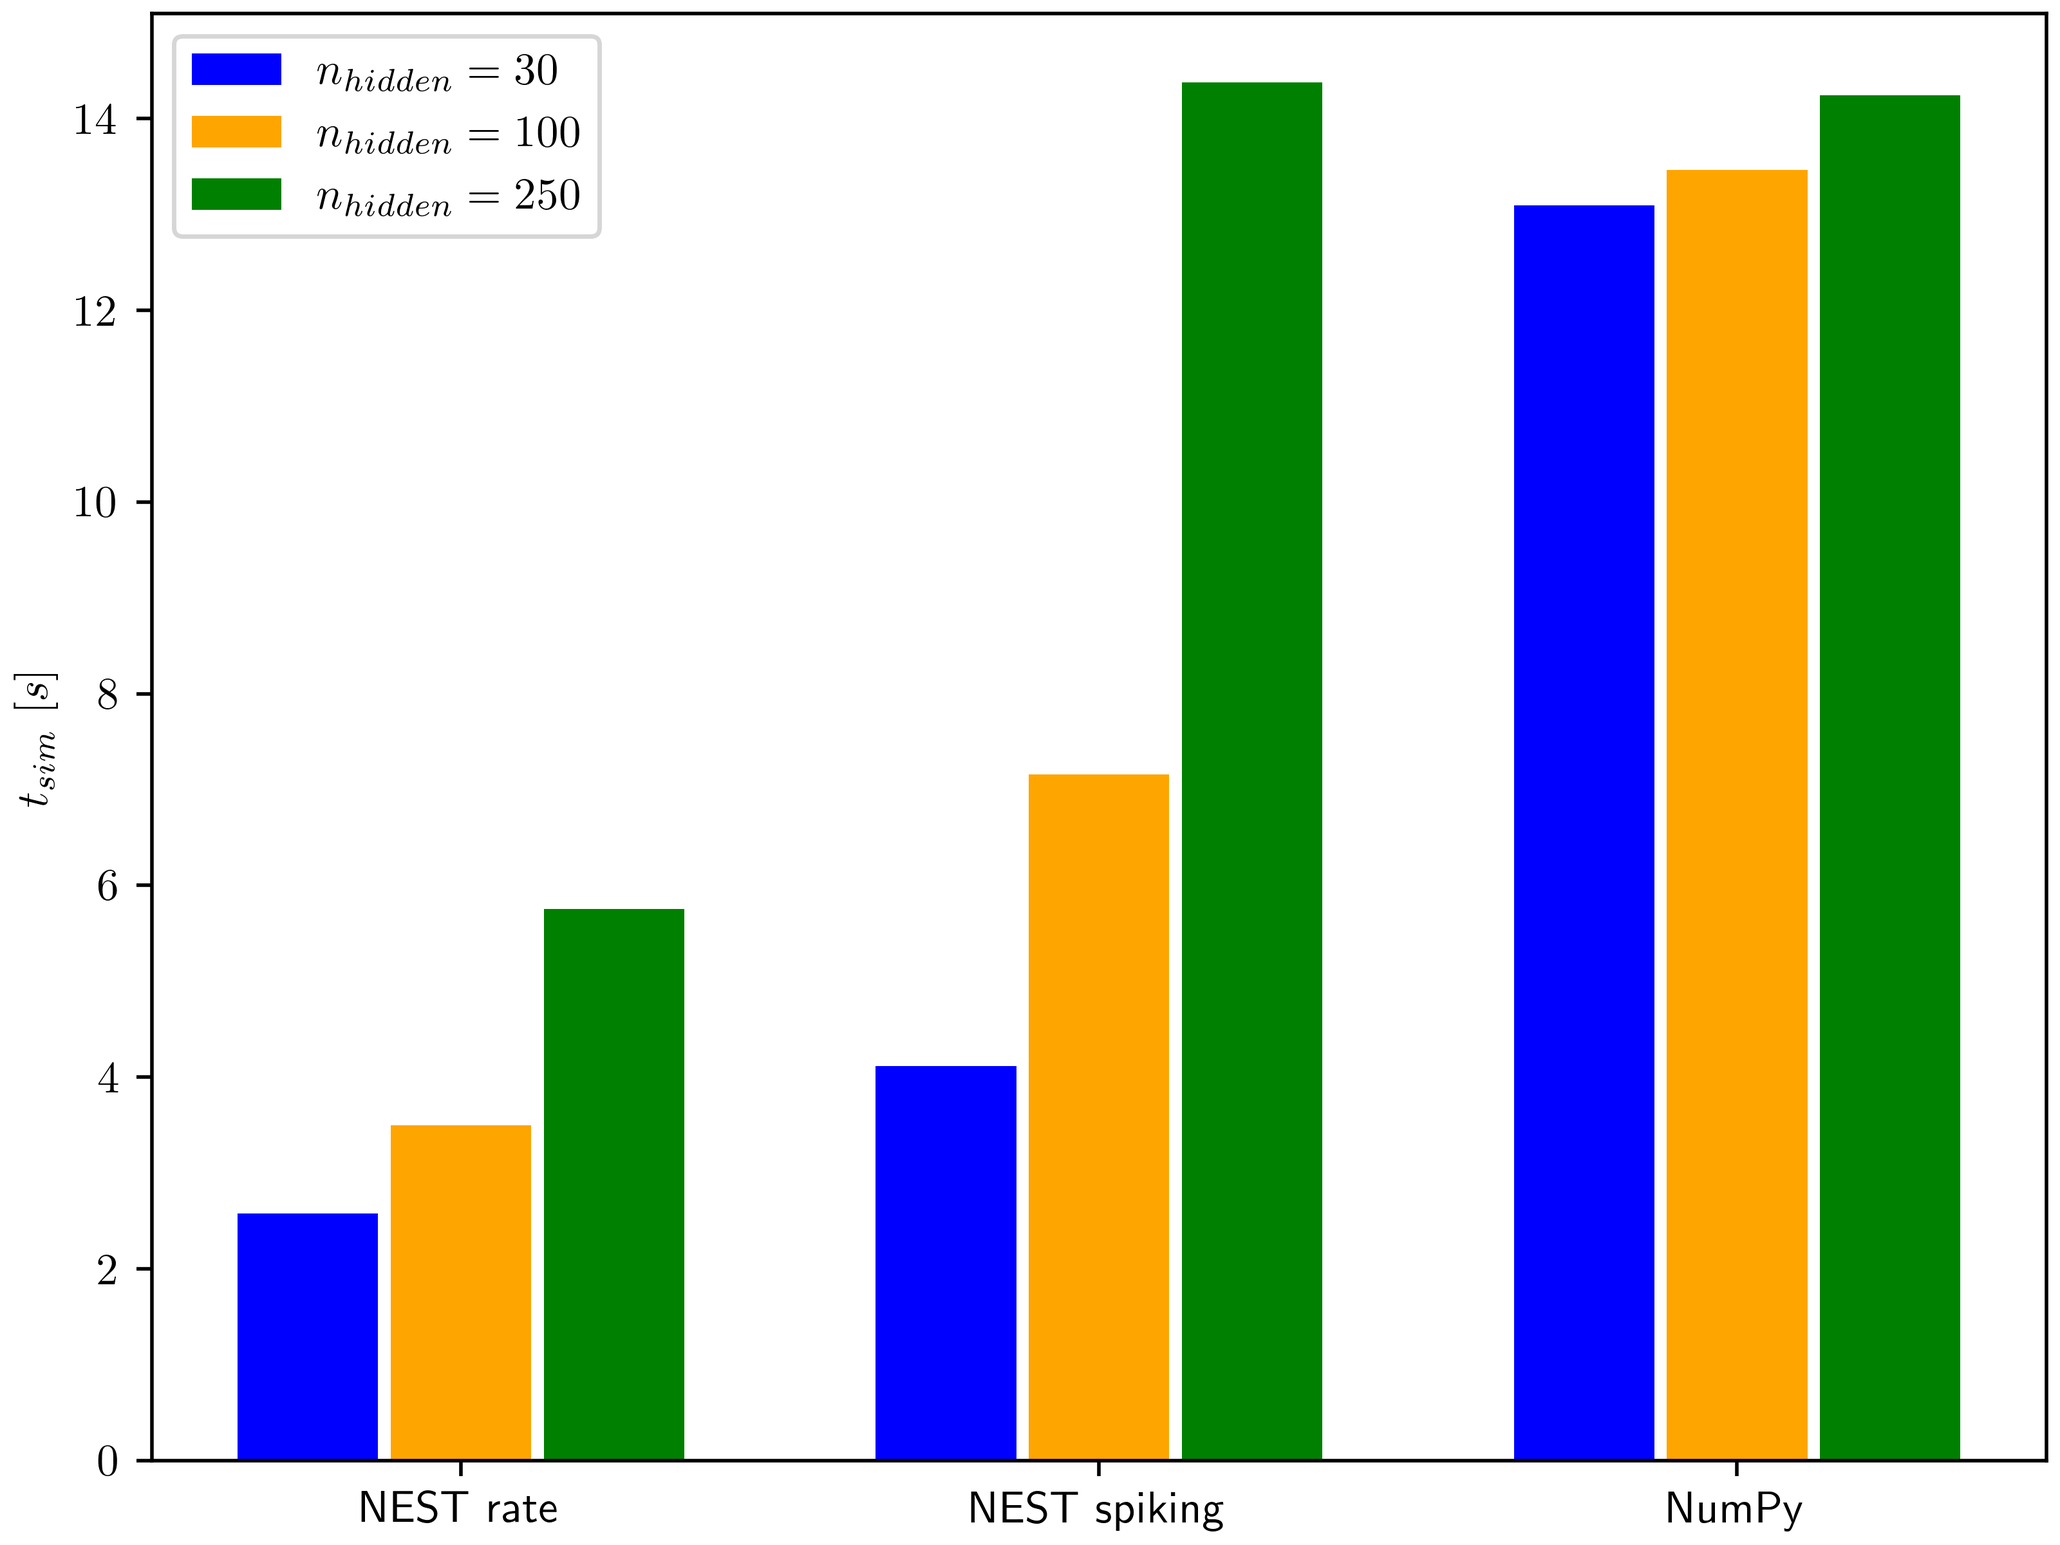
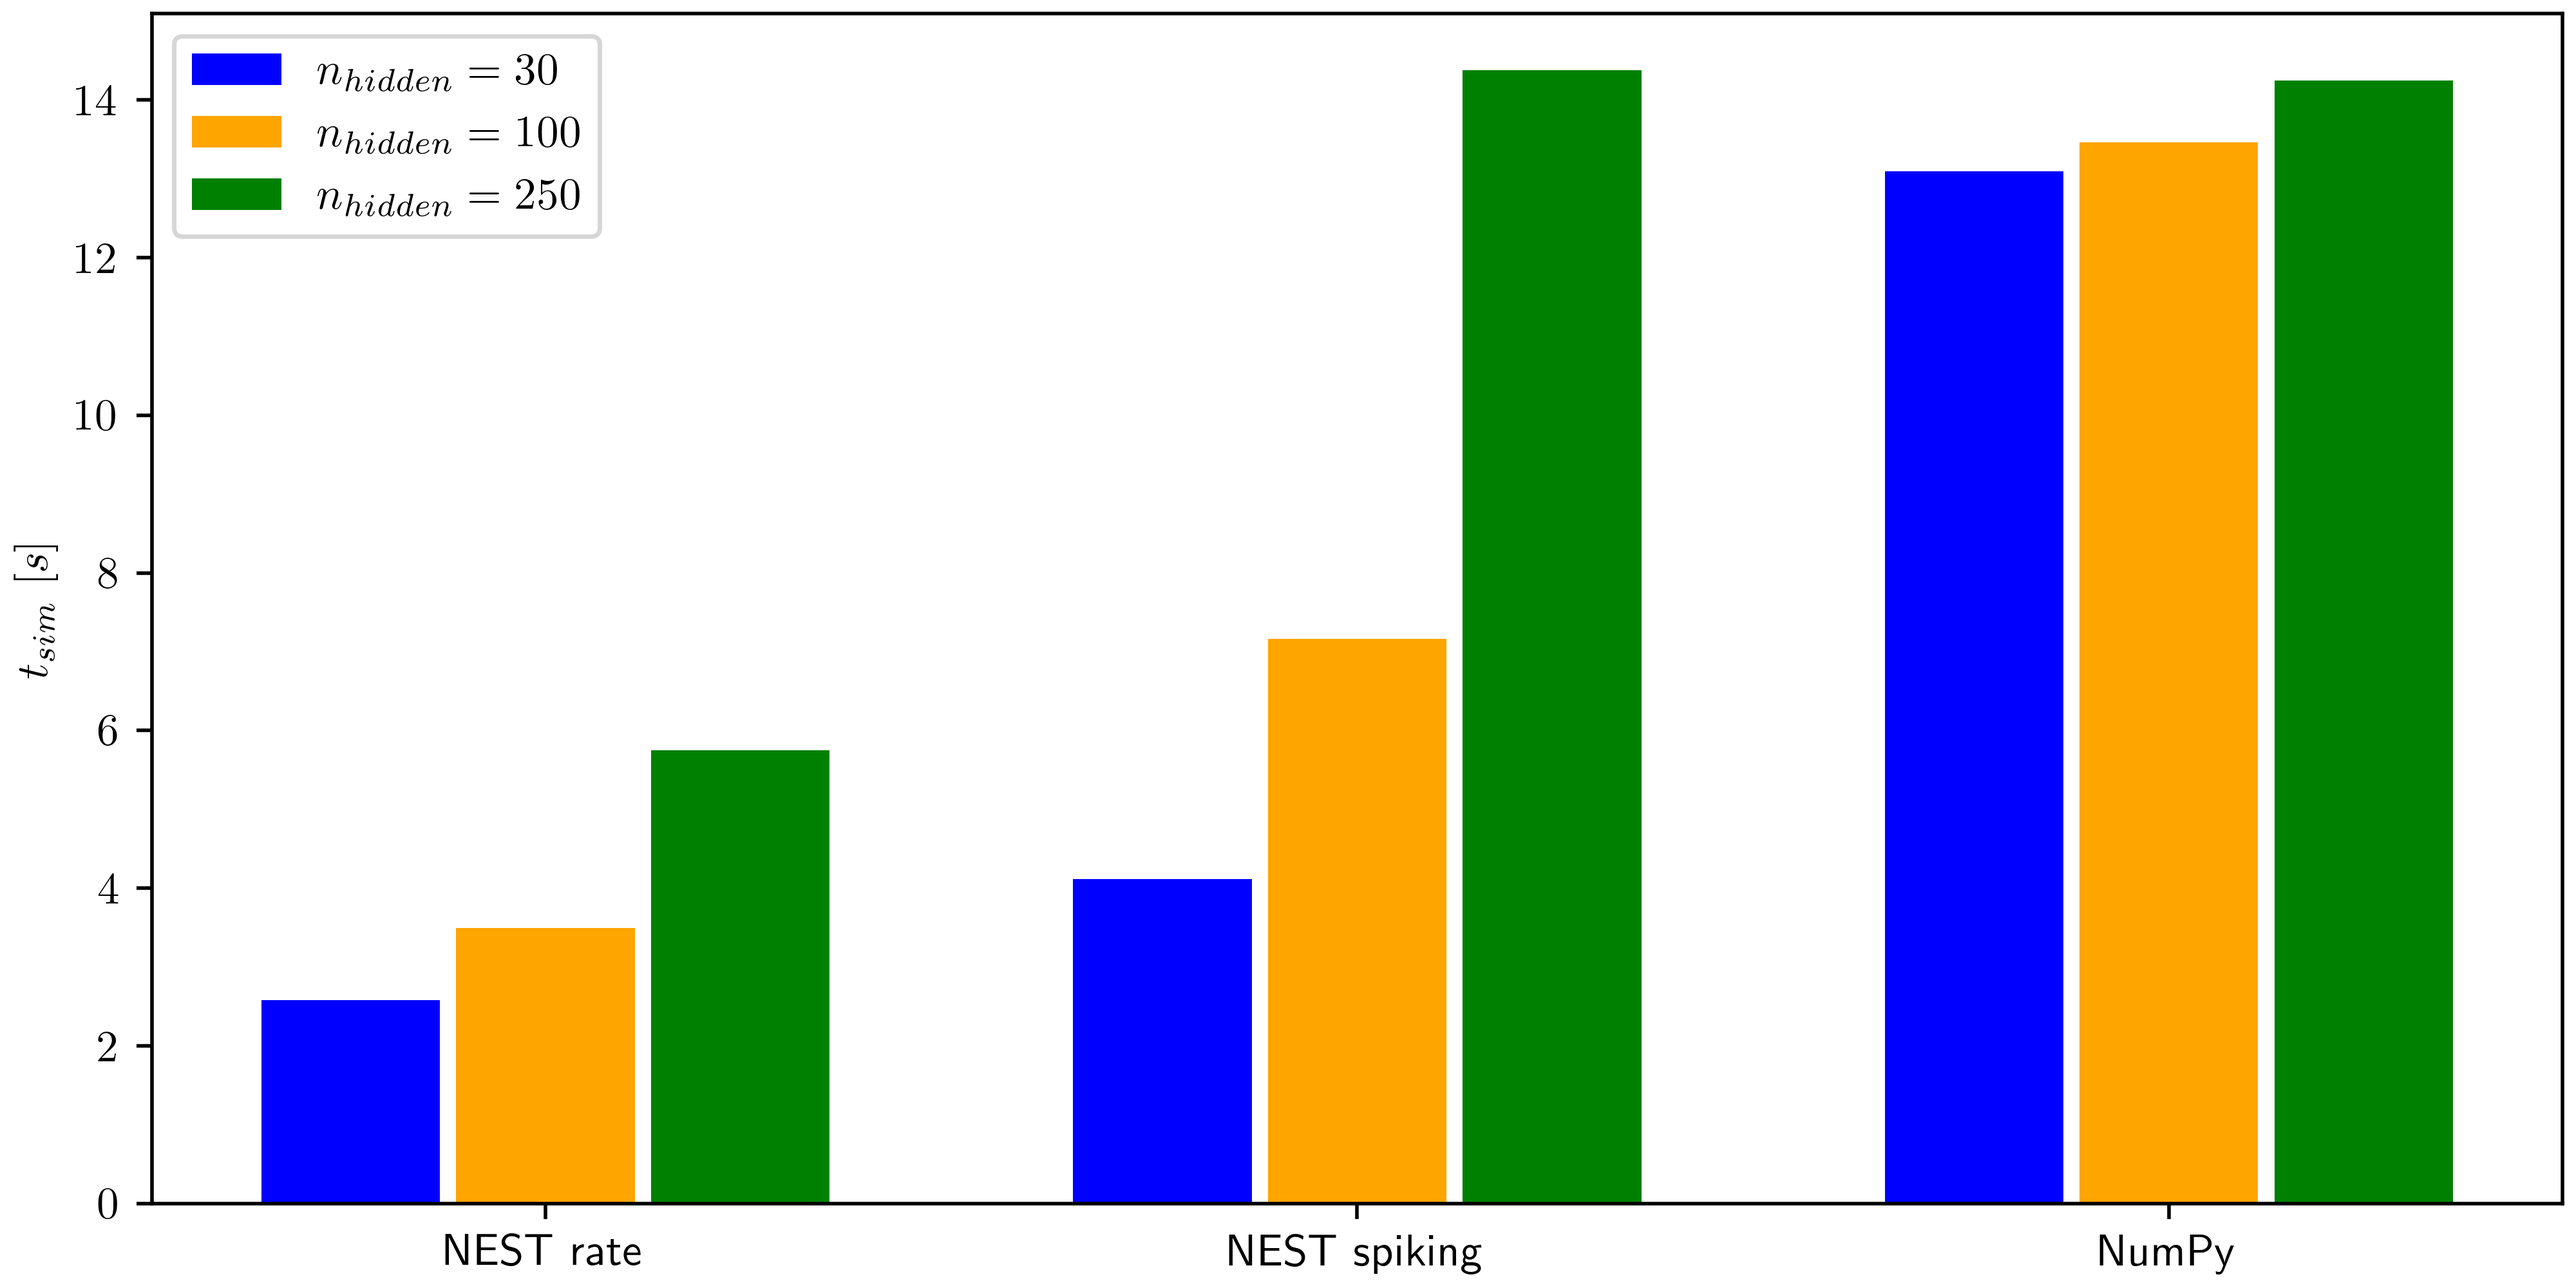
update figures and plotting scripts

diff --git a/pyramidal_microcircuit/scripts/plotting_scripts/fig_unpredicted_stimulus_response.py b/pyramidal_microcircuit/scripts/plotting_scripts/fig_unpredicted_stimulus_response.py
@@ -12,17 +12,16 @@ import nest
 
 plot_utils.setup_plt()
 
-simulation_dir = "/home/johannes/Desktop/nest-simulator/pyramidal_microcircuit/results/bars_le_full_plast_snest"
-weight_loc = os.path.join(simulation_dir, "weights.json")
-p = Params()
+simulation_dir = "/home/johannes/Desktop/nest-simulator/pyramidal_microcircuit/results/bars_le_full_plast_deep_snest"
+weight_loc = os.path.join(simulation_dir, "data/weights_1000.json")
+p = Params(os.path.join(simulation_dir, "params.json"))
 p.spiking = True
 p.network_type = "snest"
-# p.psi = 500
 p.t_pres = 25
 p.out_lag = 0
 p.store_errors = True
 p.init_self_pred = False
-p.dims = [9, 30, 3]
+p.dims = [9, 30, 10, 3]
 p.eta = {
         "ip": [
             0.0,
@@ -52,7 +51,7 @@ net = NestNetwork(p)
 sr_pyr = nest.Create("spike_recorder")
 sr_intn = nest.Create("spike_recorder")
 
-n_samples = 2
+n_samples = 10
 
 
 def reset_recorders():
@@ -97,10 +96,10 @@ for i in range(3):
     api_err.append(np.mean([i[1] for i in net.apical_error]))
     net.apical_error = []
 
-    # net.test_batch(x, y_batch)
-    # pyr_spikes_test.append(sr_pyr.n_events)
-    # intn_spikes_test.append(sr_intn.n_events)
-    # reset_recorders()
+    net.test_batch(x, y_batch)
+    pyr_spikes_test.append(sr_pyr.n_events)
+    intn_spikes_test.append(sr_intn.n_events)
+    reset_recorders()
 
 
 print(api_err)
@@ -113,14 +112,14 @@ fig, ax = plt.subplots()
 
 
 # Activity difference between training and testing was irrelevant, as shown by plotting these lines instead.
-# ax.bar(ind-gap, intn_spikes_test,  align="edge", width=-width,  color="b")
-# ax.bar(ind-gap, pyr_spikes_test, align="edge", width=-width, color="r", bottom=intn_spikes_test)
+ax.bar(ind-gap, intn_spikes_test,  align="edge", width=-width,  color="b")
+ax.bar(ind-gap, pyr_spikes_test, align="edge", width=-width, color="r", bottom=intn_spikes_test)
 
-# ax.bar(ind+gap, intn_spikes_train, align="edge", width=width, color="b", hatch='//')
-# ax.bar(ind+gap, pyr_spikes_train, align="edge", width=width, color="r", bottom=intn_spikes_train, hatch='//')
+ax.bar(ind+gap, intn_spikes_train, align="edge", width=width, color="b", hatch='//')
+ax.bar(ind+gap, pyr_spikes_train, align="edge", width=width, color="r", bottom=intn_spikes_train, hatch='//')
 
-ax.bar(ind, intn_spikes_train, width=width, color="b")
-ax.bar(ind, pyr_spikes_train, width=width, bottom=intn_spikes_train, color="r")
+# ax.bar(ind, intn_spikes_train, width=width, color="b")
+# ax.bar(ind, pyr_spikes_train, width=width, bottom=intn_spikes_train, color="r")
 
 
 ax.set_ylabel(r"$N_{spikes}$")

diff --git a/pyramidal_microcircuit/scripts/plotting_scripts/fig_idle_time.py b/pyramidal_microcircuit/scripts/plotting_scripts/fig_idle_time.py
@@ -33,7 +33,7 @@ if __name__ == "__main__":
     test_loss = []
     train_loss = []
     r2_scores = []
-    fig, [ax0, ax1] = plt.subplots(1, 2, sharex=True)
+    fig, [ax0, ax1] = plt.subplots(1, 2, sharex=True, figsize=[8, 3])
 
     all_configs = sorted([name for name in os.listdir(result_dir) if os.path.isdir(os.path.join(result_dir, name))])
 
@@ -45,16 +45,17 @@ if __name__ == "__main__":
 
         test_acc = np.array(sorted(progress["test_acc"]))
         test_loss = np.array(sorted(progress["test_loss"]))
-
-        ax0.plot(test_acc[:, 0], utils.rolling_avg(test_acc[:, 1], 3), label=conf_names[config])
+        test_acc[:, 1] = 1 - test_acc[:, 1]
+        ax0.plot(test_acc[:, 0], utils.rolling_avg(test_acc[:, 1], 5), label=conf_names[config])
         ax1.plot(test_loss[:, 0], utils.rolling_avg(test_loss[:, 1], 10), label=conf_names[config])
     ax0.set_xlim(0, 500)
     ax1.set_xlim(0, 500)
 
-    ax0.set_ylim(0.4, 1.05)
+    ax0.set_ylim(-0.01, 0.7)
+    ax1.set_ylim(-0.005, 0.25)
 
-    ax0.set_title("Accuracy")
-    ax1.set_title("Loss")
+    ax0.set_title("Test error")
+    ax1.set_title("Test loss")
 
     ax0.set_xlabel("Epoch")
     ax1.set_xlabel("Epoch")

diff --git a/pyramidal_microcircuit/scripts/plotting_scripts/fig_benchmark_plasticity.py b/pyramidal_microcircuit/scripts/plotting_scripts/fig_benchmark_plasticity.py
@@ -38,7 +38,7 @@ labels = {
                      "linestyle": "--"},
 }
 
-fig, ax = plt.subplots()
+fig, ax = plt.subplots(figsize=(8, 3.5))
 all_bars = []
 for name, cfg in labels.items():
     bar = ax.bar(cfg["X"], results[name]["t_mean"], color=cfg["color"], label=cfg["label"], width=width*1.5)

diff --git a/pyramidal_microcircuit/scripts/plotting_scripts/fig_benchmark_n_hidden.py b/pyramidal_microcircuit/scripts/plotting_scripts/fig_benchmark_n_hidden.py
@@ -50,7 +50,7 @@ labels = {
                   "color": "green"},
 }
 
-fig, ax = plt.subplots()
+fig, ax = plt.subplots(figsize= (8,4))
 all_bars = []
 for name, cfg in labels.items():
     bar = ax.bar(cfg["X"], results[name]["t_mean"], color=cfg["color"], label=cfg["label"], width=width)
